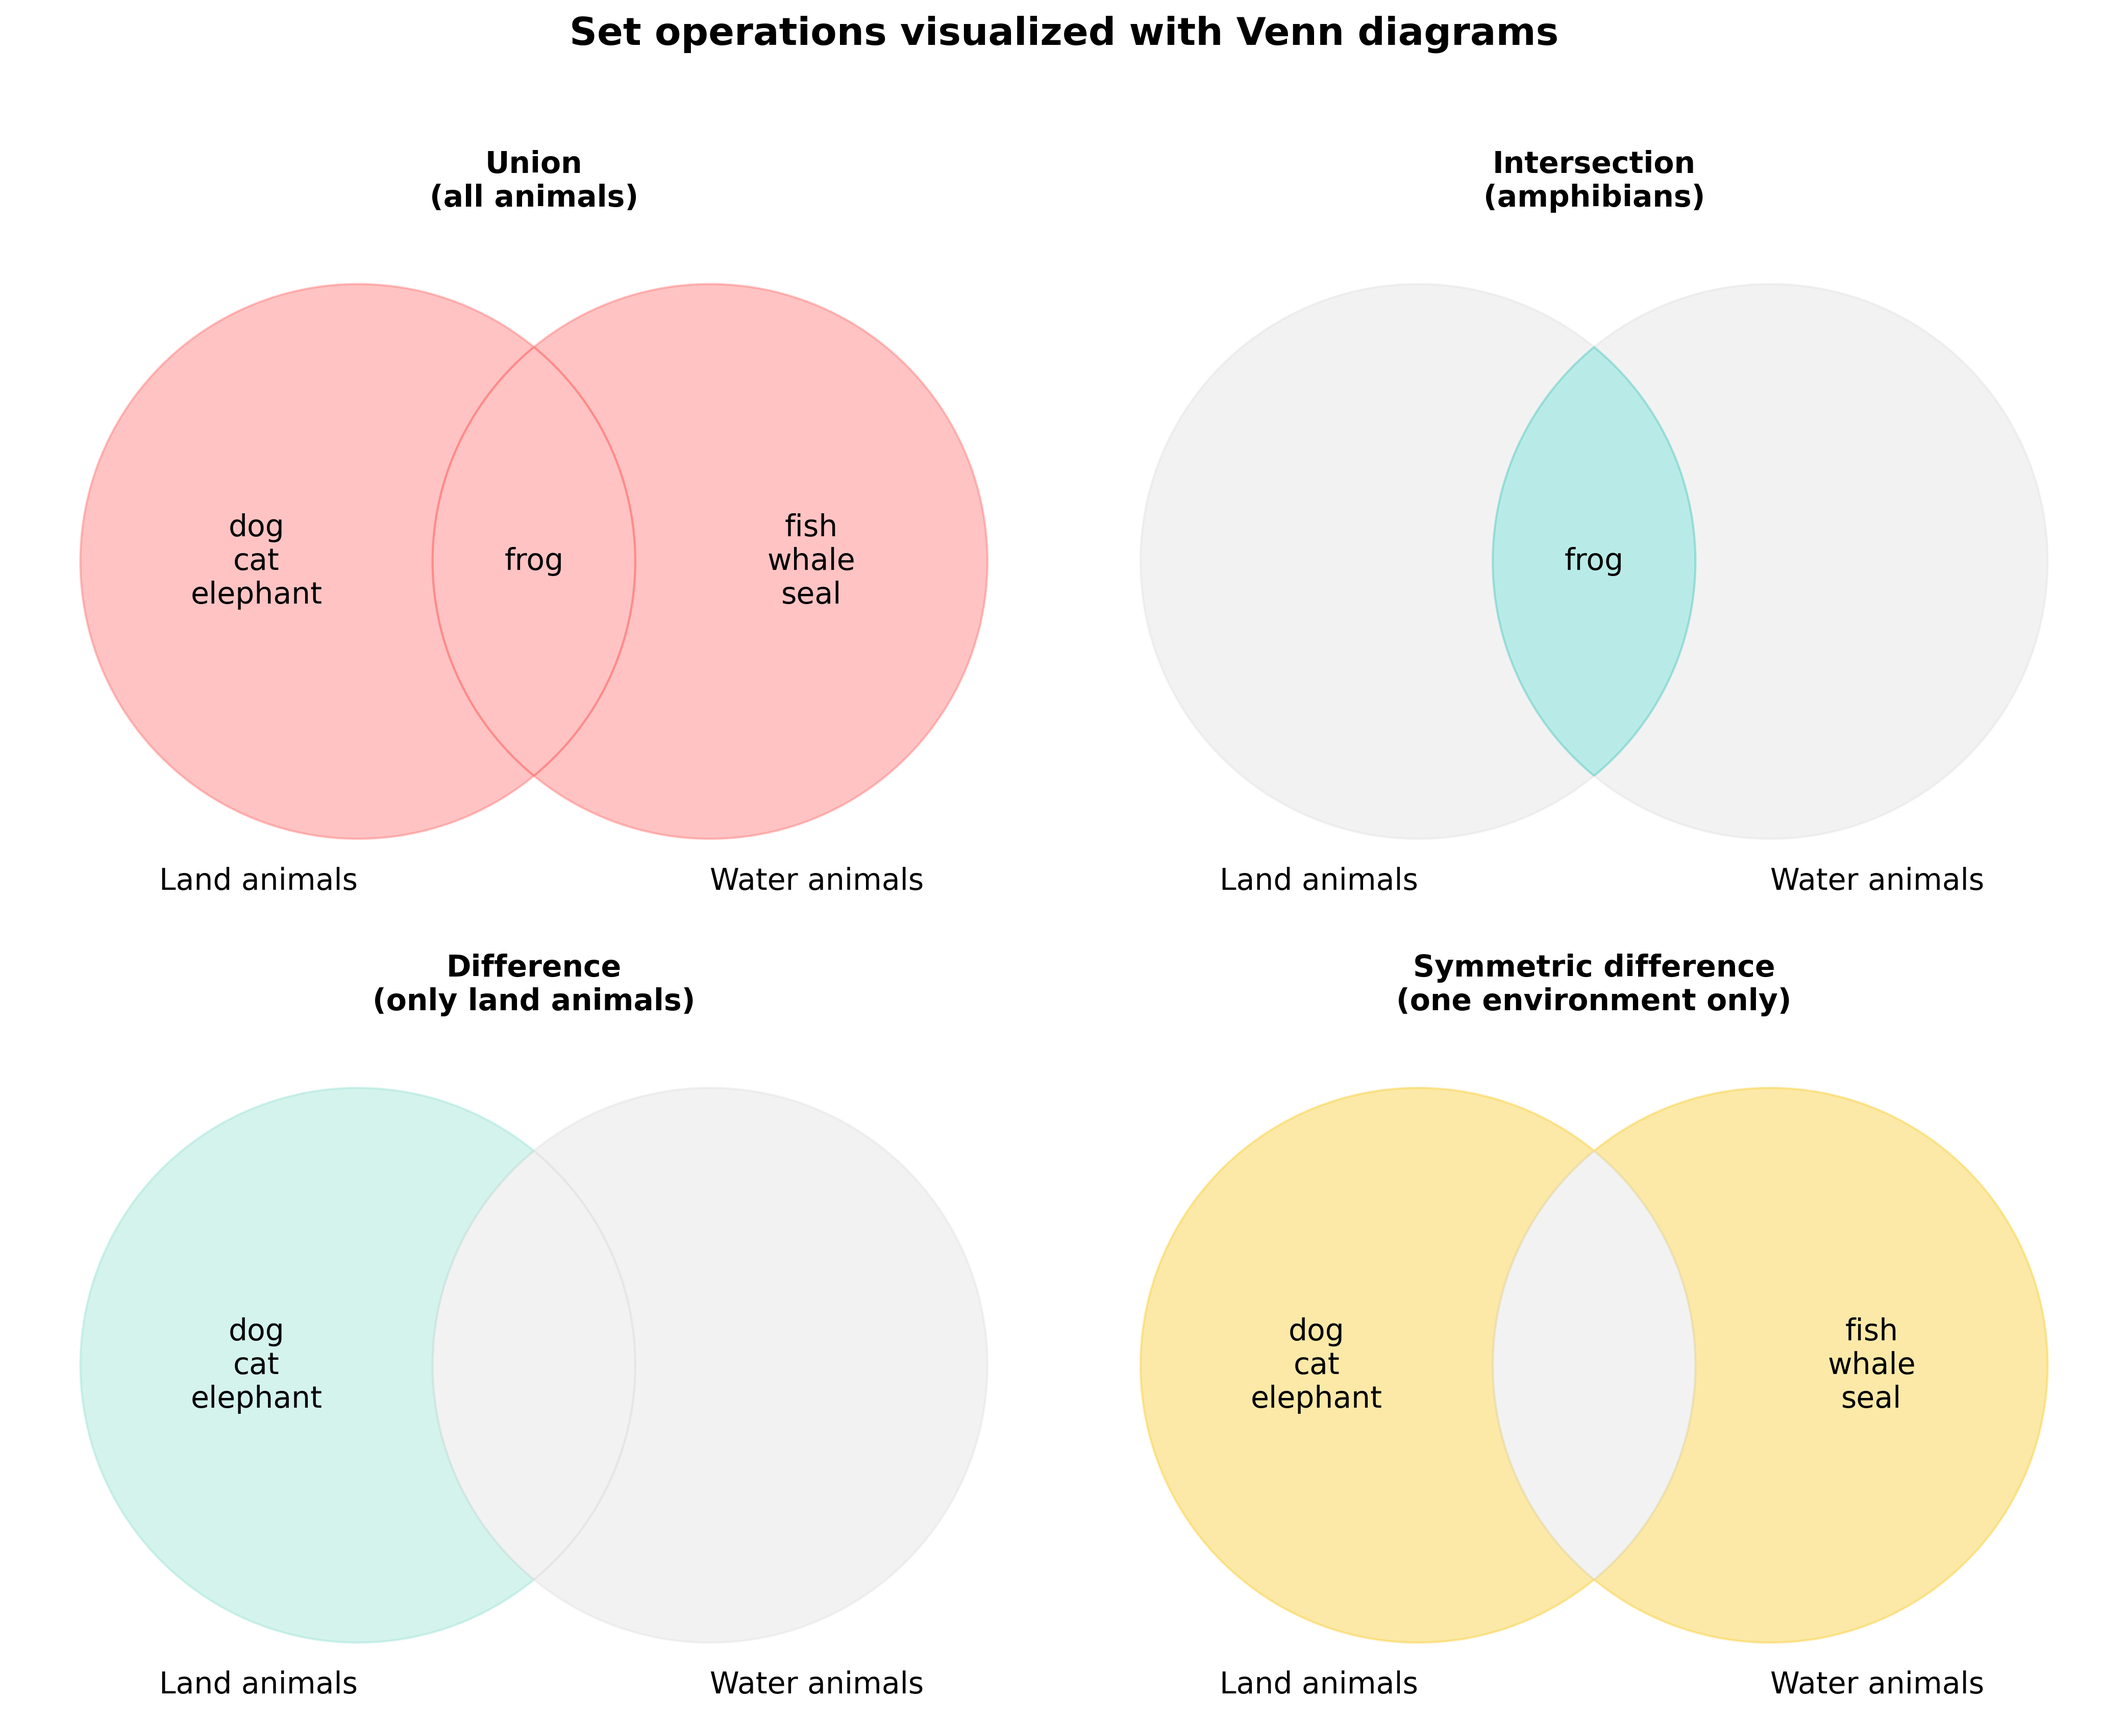
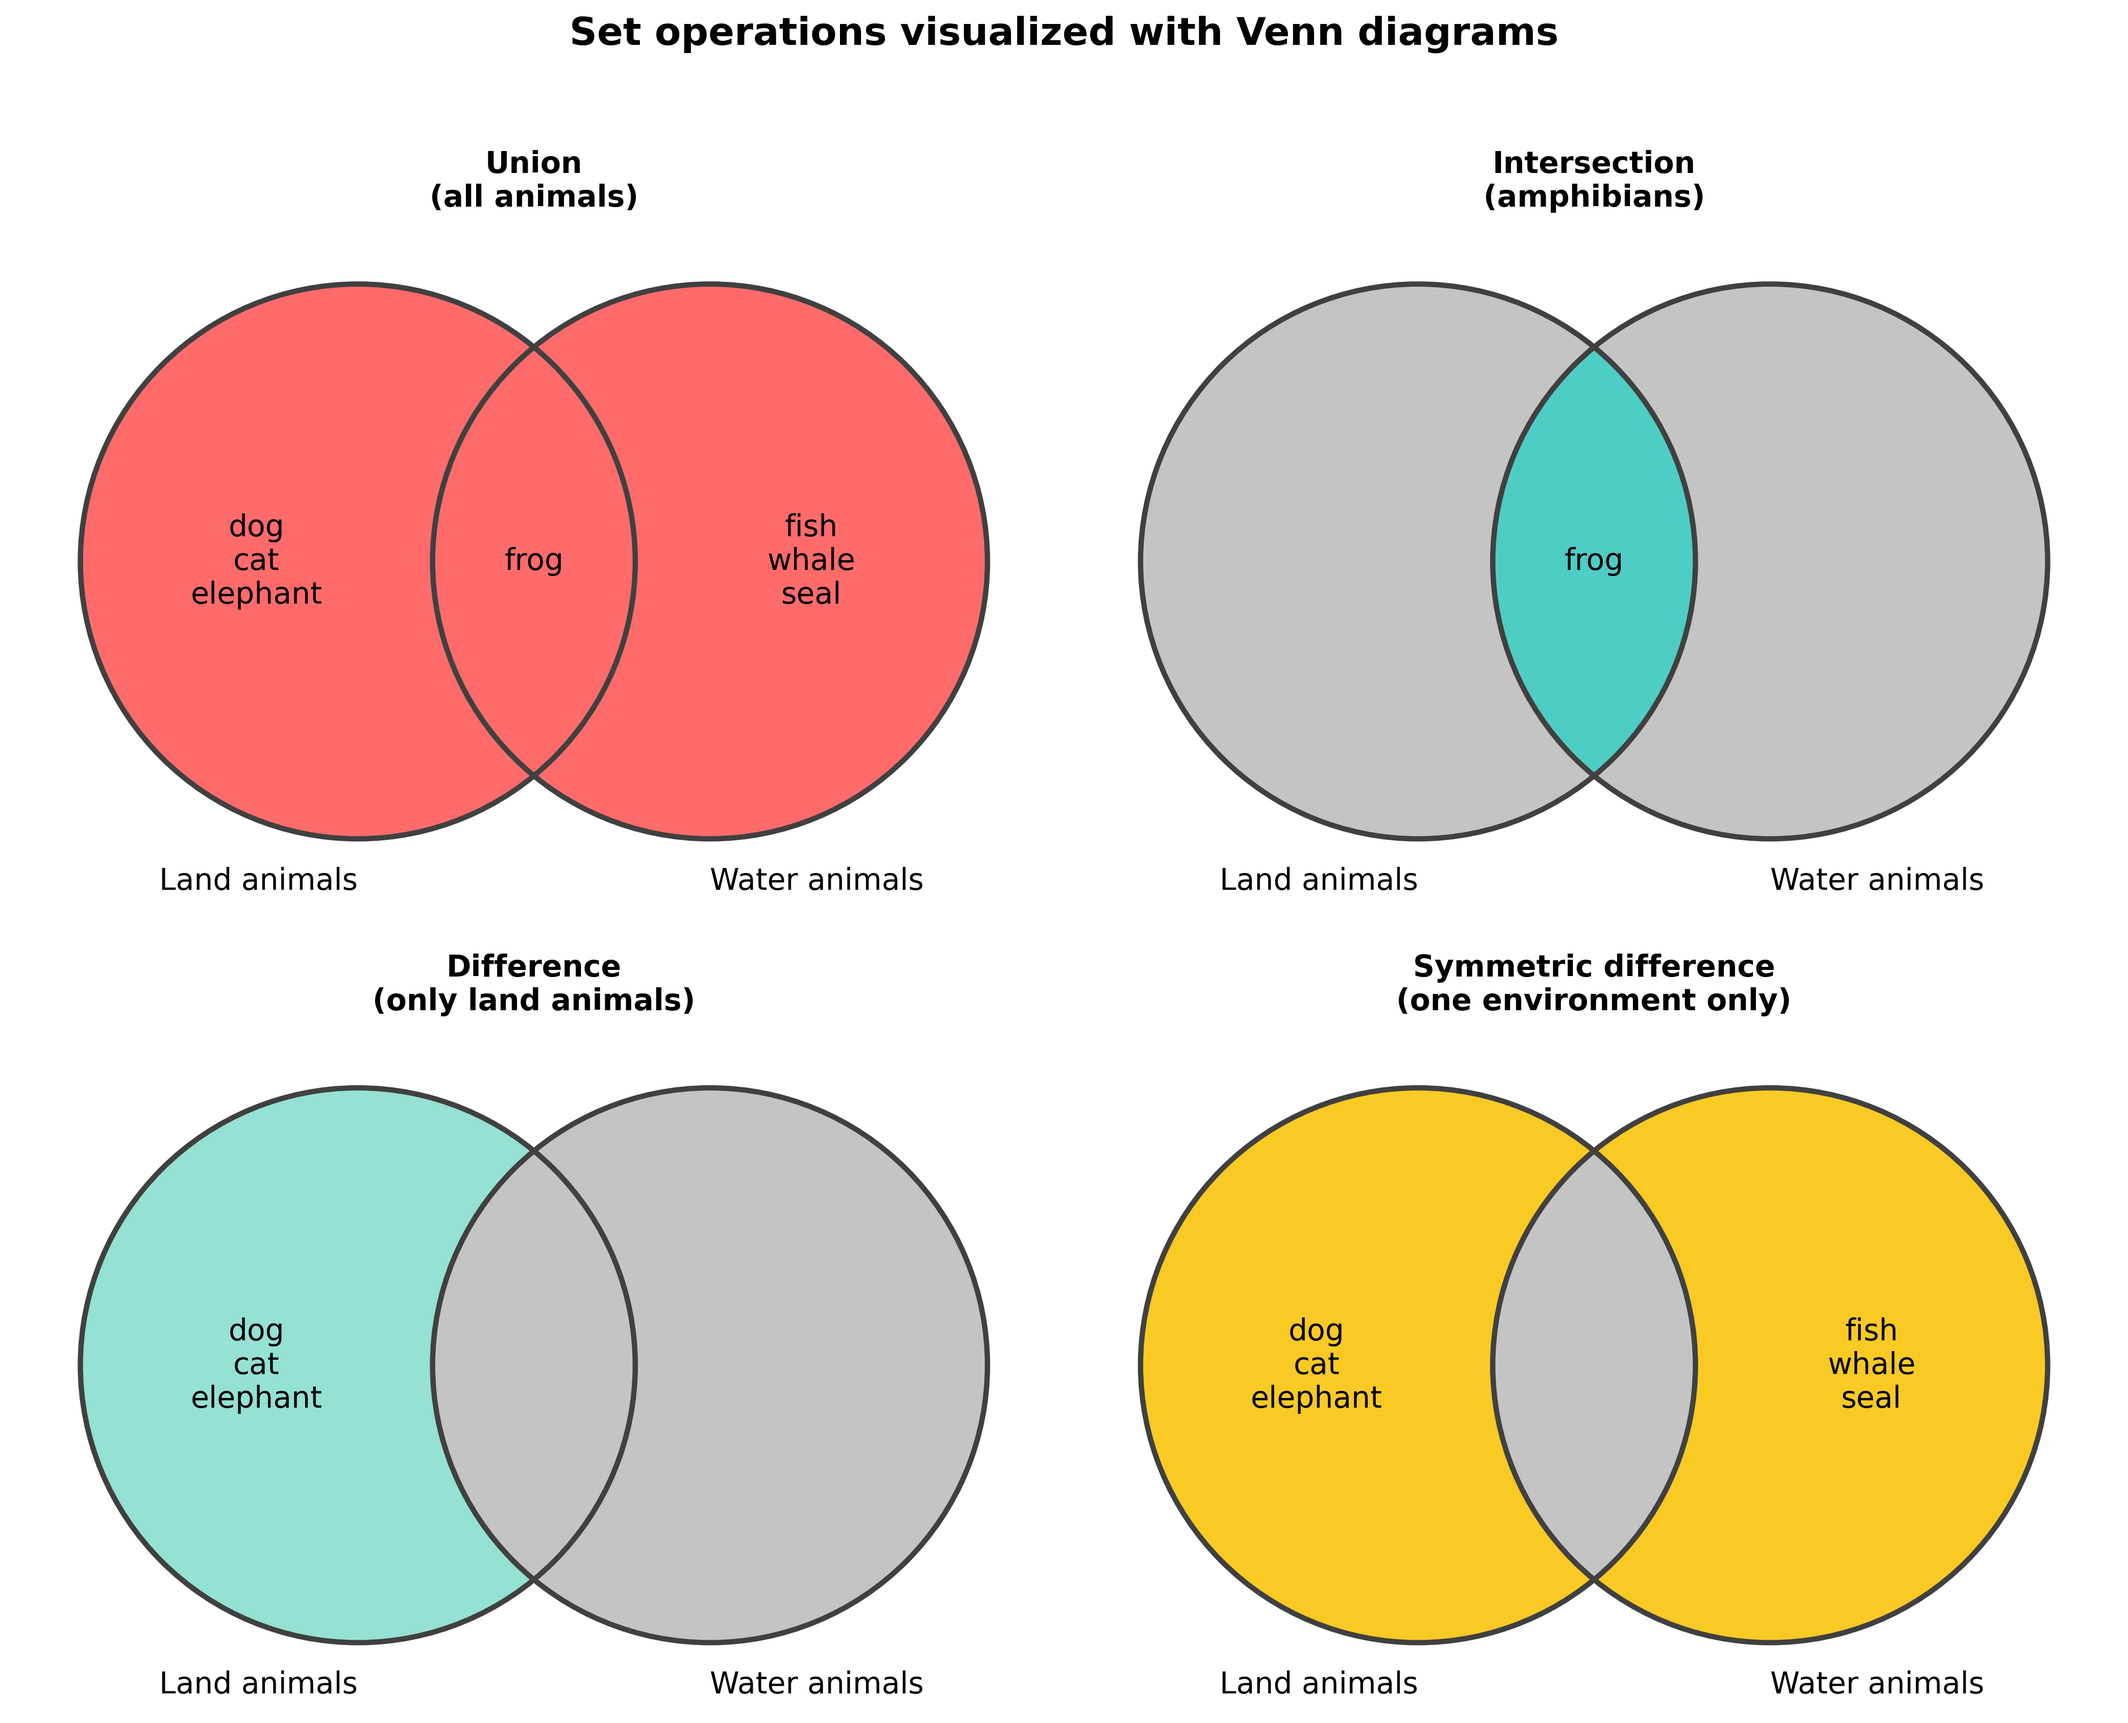
docs(labs): sharpen the venn figure and rework the insertion sort intro

diff --git a/scripts/create_venn_diagram.py b/scripts/create_venn_diagram.py
@@ -3,69 +3,82 @@
 # SPDX-License-Identifier: ISC
 
 import matplotlib.pyplot as plt
-from matplotlib_venn import venn2
+from matplotlib_venn import venn2, venn2_circles
+
+EXCLUDED = "#c4c4c4"
 
 fig, axes = plt.subplots(2, 2, figsize=(14, 12))
-fig.suptitle('Set operations visualized with Venn diagrams', fontsize=18, fontweight='bold')
+fig.suptitle(
+    "Set operations visualized with Venn diagrams", fontsize=18, fontweight="bold"
+)
 
 # Union
 ax1 = axes[0, 0]
-v1 = venn2(subsets=(3, 3, 1), set_labels=('Land animals', 'Water animals'), ax=ax1)
-v1.get_patch_by_id('10').set_color('#ff6b6b')
-v1.get_patch_by_id('01').set_color('#ff6b6b')
-v1.get_patch_by_id('11').set_color('#ff6b6b')
-v1.get_label_by_id('10').set_text('dog\ncat\nelephant')
-v1.get_label_by_id('10').set_fontsize(14)
-v1.get_label_by_id('11').set_text('frog')
-v1.get_label_by_id('11').set_fontsize(14)
-v1.get_label_by_id('01').set_text('fish\nwhale\nseal')
-v1.get_label_by_id('01').set_fontsize(14)
-v1.get_label_by_id('A').set_fontsize(14)
-v1.get_label_by_id('B').set_fontsize(14)
-ax1.set_title('Union\n(all animals)', fontsize=14, fontweight='bold')
+v1 = venn2(subsets=(3, 3, 1), set_labels=("Land animals", "Water animals"), ax=ax1)
+v1.get_patch_by_id("10").set_color("#ff6b6b")
+v1.get_patch_by_id("01").set_color("#ff6b6b")
+v1.get_patch_by_id("11").set_color("#ff6b6b")
+v1.get_label_by_id("10").set_text("dog\ncat\nelephant")
+v1.get_label_by_id("10").set_fontsize(14)
+v1.get_label_by_id("11").set_text("frog")
+v1.get_label_by_id("11").set_fontsize(14)
+v1.get_label_by_id("01").set_text("fish\nwhale\nseal")
+v1.get_label_by_id("01").set_fontsize(14)
+v1.get_label_by_id("A").set_fontsize(14)
+v1.get_label_by_id("B").set_fontsize(14)
+ax1.set_title("Union\n(all animals)", fontsize=14, fontweight="bold")
 
 # Intersection
 ax2 = axes[0, 1]
-v2 = venn2(subsets=(3, 3, 1), set_labels=('Land animals', 'Water animals'), ax=ax2)
-v2.get_patch_by_id('10').set_color('#e0e0e0')
-v2.get_patch_by_id('01').set_color('#e0e0e0')
-v2.get_patch_by_id('11').set_color('#4ecdc4')
-v2.get_label_by_id('10').set_text('')
-v2.get_label_by_id('11').set_text('frog')
-v2.get_label_by_id('11').set_fontsize(14)
-v2.get_label_by_id('01').set_text('')
-v2.get_label_by_id('A').set_fontsize(14)
-v2.get_label_by_id('B').set_fontsize(14)
-ax2.set_title('Intersection\n(amphibians)', fontsize=14, fontweight='bold')
+v2 = venn2(subsets=(3, 3, 1), set_labels=("Land animals", "Water animals"), ax=ax2)
+v2.get_patch_by_id("10").set_color(EXCLUDED)
+v2.get_patch_by_id("01").set_color(EXCLUDED)
+v2.get_patch_by_id("11").set_color("#4ecdc4")
+v2.get_label_by_id("10").set_text("")
+v2.get_label_by_id("11").set_text("frog")
+v2.get_label_by_id("11").set_fontsize(14)
+v2.get_label_by_id("01").set_text("")
+v2.get_label_by_id("A").set_fontsize(14)
+v2.get_label_by_id("B").set_fontsize(14)
+ax2.set_title("Intersection\n(amphibians)", fontsize=14, fontweight="bold")
 
 # Difference
 ax3 = axes[1, 0]
-v3 = venn2(subsets=(3, 3, 1), set_labels=('Land animals', 'Water animals'), ax=ax3)
-v3.get_patch_by_id('10').set_color('#95e1d3')
-v3.get_patch_by_id('01').set_color('#e0e0e0')
-v3.get_patch_by_id('11').set_color('#e0e0e0')
-v3.get_label_by_id('10').set_text('dog\ncat\nelephant')
-v3.get_label_by_id('10').set_fontsize(14)
-v3.get_label_by_id('11').set_text('')
-v3.get_label_by_id('01').set_text('')
-v3.get_label_by_id('A').set_fontsize(14)
-v3.get_label_by_id('B').set_fontsize(14)
-ax3.set_title('Difference\n(only land animals)', fontsize=14, fontweight='bold')
+v3 = venn2(subsets=(3, 3, 1), set_labels=("Land animals", "Water animals"), ax=ax3)
+v3.get_patch_by_id("10").set_color("#95e1d3")
+v3.get_patch_by_id("01").set_color(EXCLUDED)
+v3.get_patch_by_id("11").set_color(EXCLUDED)
+v3.get_label_by_id("10").set_text("dog\ncat\nelephant")
+v3.get_label_by_id("10").set_fontsize(14)
+v3.get_label_by_id("11").set_text("")
+v3.get_label_by_id("01").set_text("")
+v3.get_label_by_id("A").set_fontsize(14)
+v3.get_label_by_id("B").set_fontsize(14)
+ax3.set_title("Difference\n(only land animals)", fontsize=14, fontweight="bold")
 
 # Symmetric difference
 ax4 = axes[1, 1]
-v4 = venn2(subsets=(3, 3, 1), set_labels=('Land animals', 'Water animals'), ax=ax4)
-v4.get_patch_by_id('10').set_color('#f9ca24')
-v4.get_patch_by_id('01').set_color('#f9ca24')
-v4.get_patch_by_id('11').set_color('#e0e0e0')
-v4.get_label_by_id('10').set_text('dog\ncat\nelephant')
-v4.get_label_by_id('10').set_fontsize(14)
-v4.get_label_by_id('11').set_text('')
-v4.get_label_by_id('01').set_text('fish\nwhale\nseal')
-v4.get_label_by_id('01').set_fontsize(14)
-v4.get_label_by_id('A').set_fontsize(14)
-v4.get_label_by_id('B').set_fontsize(14)
-ax4.set_title('Symmetric difference\n(one environment only)', fontsize=14, fontweight='bold')
+v4 = venn2(subsets=(3, 3, 1), set_labels=("Land animals", "Water animals"), ax=ax4)
+v4.get_patch_by_id("10").set_color("#f9ca24")
+v4.get_patch_by_id("01").set_color("#f9ca24")
+v4.get_patch_by_id("11").set_color(EXCLUDED)
+v4.get_label_by_id("10").set_text("dog\ncat\nelephant")
+v4.get_label_by_id("10").set_fontsize(14)
+v4.get_label_by_id("11").set_text("")
+v4.get_label_by_id("01").set_text("fish\nwhale\nseal")
+v4.get_label_by_id("01").set_fontsize(14)
+v4.get_label_by_id("A").set_fontsize(14)
+v4.get_label_by_id("B").set_fontsize(14)
+ax4.set_title(
+    "Symmetric difference\n(one environment only)", fontsize=14, fontweight="bold"
+)
 
-plt.tight_layout(rect=[0, 0, 1, 0.96])
-plt.savefig('think_and_compute/img/venn_diagram_operations.png', dpi=300, bbox_inches='tight')
+for ax, diagram in zip(axes.flat, (v1, v2, v3, v4)):
+    for patch in diagram.patches:
+        patch.set_alpha(1)
+    venn2_circles(subsets=(3, 3, 1), ax=ax, linewidth=2.5, color="#404040")
+
+plt.tight_layout(rect=(0, 0, 1, 0.96))
+plt.savefig(
+    "think_and_compute/img/venn_diagram_operations.png", dpi=300, bbox_inches="tight"
+)

diff --git a/think_and_compute/lab-05.md b/think_and_compute/lab-05.md
@@ -21,43 +21,14 @@ kernelspec:
 :class: tip
 By the end of this lab, you will be able to:
 - Better understand the insertion sort algorithm
-- Implement efficient in-place sorting algorithms using swap and shift techniques
+- Implement in-place sorting algorithms using swap and shift techniques
 ```
 
 ---
 
 ## Part 1: Brute-force exercises
 
-In {ref}`ch-brute-force`, you learned about brute-force algorithms that solve problems by examining all possible solutions. The two main algorithms introduced were **linear search** and **insertion sort**. In this section, you will implement efficient variants of insertion sort and solve other problems with the brute-force approach.
-
-### Exercise 1.1: Find elements above threshold
-
-Implement a function `find_above_threshold(values, threshold)` that returns a list of all values greater than the given threshold.
-
-```python
-print(find_above_threshold([15, 22, 8, 31, 17], 20))     # Expected: [22, 31]
-print(find_above_threshold([1, 2, 3, 4, 5], 10))        # Expected: []
-print(find_above_threshold([100, 50, 75, 25], 50))      # Expected: [100, 75]
-```
-
-````{admonition} Solution
-:class: dropdown
-
-```python
-def find_above_threshold(values, threshold):
-    result = []
-    for value in values:
-        if value > threshold:
-            result.append(value)
-    return result
-
-print(find_above_threshold([15, 22, 8, 31, 17], 20))     # [22, 31]
-print(find_above_threshold([1, 2, 3, 4, 5], 10))        # []
-print(find_above_threshold([100, 50, 75, 25], 50))      # [100, 75]
-```
-````
-
----
+In {ref}`ch-brute-force`, you learned about brute-force algorithms that solve problems by examining all possible solutions. The two main algorithms introduced were **linear search** and **insertion sort**. In this section, you will implement in-place variants of insertion sort and solve other problems with the brute-force approach.
 
 ### Reviewing insertion sort
 
@@ -93,19 +64,19 @@ def insertion_sort(input_list):
 print(insertion_sort([5, 3, 8, 1]))  # [1, 3, 5, 8]
 ```
 
-This implementation is intuitive and was useful for introducing several Python features: the `insert()` method, the `range()` function, and the `reversed()` function. However, it has some inefficiencies:
+This implementation is intuitive and was useful for introducing several Python features: the `insert()` method, the `range()` function, and the `reversed()` function. However, it does more work than it needs to:
 
 1. **Extra memory**: It creates a new list (`result`) to store the sorted elements, using additional memory proportional to the input size.
 
-2. **Hidden cost of `insert()`**: The `list.insert()` method looks simple, but internally it must shift all elements after the insertion point to make room for the new element. For a list with many elements, this shifting operation can be expensive.
+2. **Unnecessary comparisons**: The inner loop scans every position of `result`, even after it has found where the item belongs. On a list that is already sorted, each item is still compared with all the items before it.
 
-For example, if we insert an element at position 0 of a list with 100 elements, Python must move all 100 elements one position to the right. This happens "behind the scenes" but still takes time.
+3. **Hidden cost of `insert()`**: The `list.insert()` method looks simple, but internally it must shift all elements after the insertion point to make room for the new element. For example, if we insert an element at position 0 of a list with 100 elements, Python must move all 100 elements one position to the right. This happens "behind the scenes" but still takes time.
 
-In the following exercises, you will implement more efficient versions that modify the list *in place* (without creating a new list) and avoid the hidden cost of `insert()`.
+In the following exercises, you will write versions that sort the list *in place*, without creating a new list, and stop scanning as soon as the item reaches its position. You will also move the elements yourself instead of calling `insert()`. The shifting no longer happens behind the scenes, which lets you see how much it costs and find a way to keep that cost low.
 
 ---
 
-### Exercise 1.2: In-place insertion sort with swap
+### Exercise 1.1: In-place insertion sort with swap
 
 Implement a function `insertion_sort_swap(items)` that sorts a list in place using element swapping.
 
@@ -198,7 +169,7 @@ Note that each swap requires 3 operations.
 
 ---
 
-### Exercise 1.3: In-place insertion sort with shift
+### Exercise 1.2: In-place insertion sort with shift
 
 The swap-based approach works, but each swap requires 3 operations. When moving an element several positions, we can do better.
 
@@ -301,7 +272,7 @@ In both cases, `prev_position + 1` gives the correct insertion position.
 
 ---
 
-### Exercise 1.4: Sort by string length
+### Exercise 1.3: Sort by string length
 
 Modify the insertion sort algorithm to sort strings by their **length** (shortest first) instead of alphabetically.
 
@@ -358,7 +329,7 @@ Result:             ["a", "cat", "elephant"]
 
 ---
 
-### Exercise 1.5: Find second largest
+### Exercise 1.4: Find second largest
 
 Implement a function `find_second_largest(numbers)` that returns the second largest value in a list with at least two distinct elements.
 
